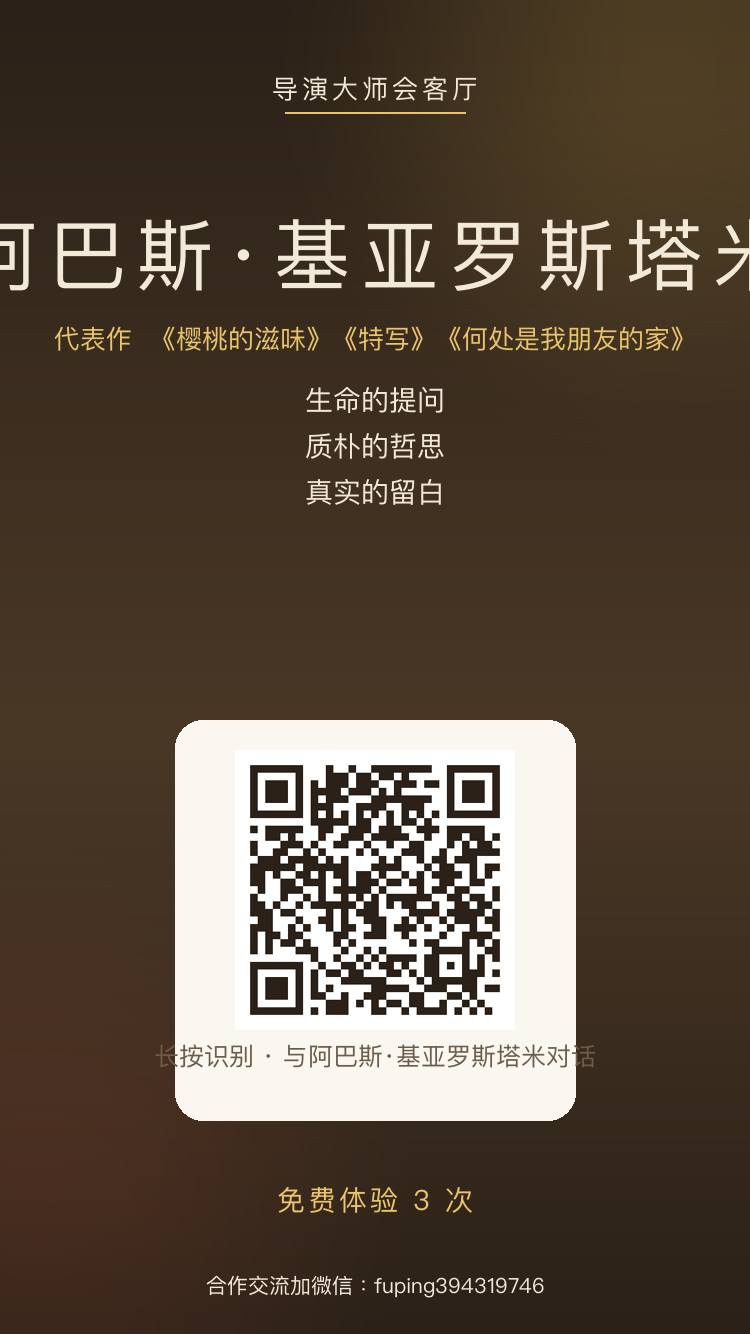
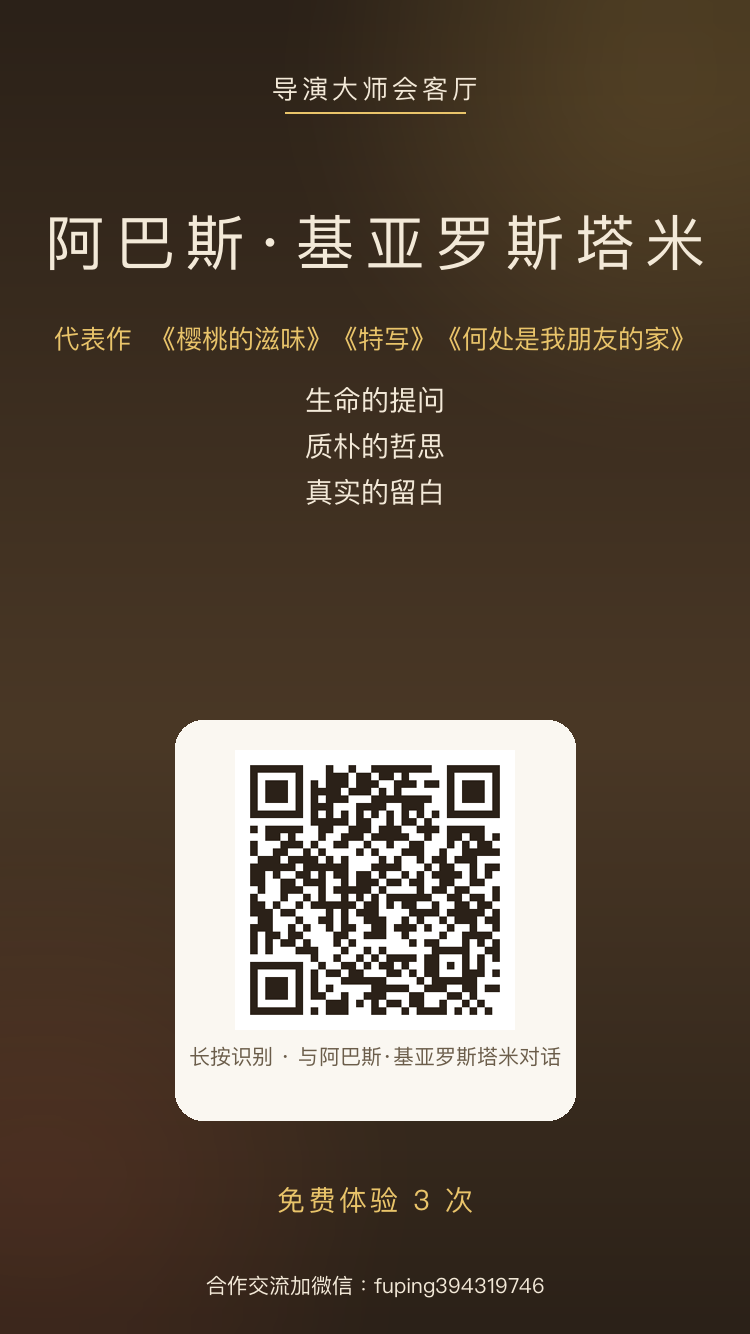
fix: 海报长名/二维码说明文字自动缩号，修复长字导演出画

diff --git a/directors/share/make_director_posters.py b/directors/share/make_director_posters.py
@@ -46,6 +46,16 @@ def center(d, text, y, fnt, fill, spacing=0, cx=W//2):
     else:
         w = d.textlength(text, font=fnt); d.text((cx - w/2, y), text, font=fnt, fill=fill)
 
+def fit_font(d, text, path, start, min_size, max_width, spacing=0):
+    """自动缩小字号直到文本(含字距)不超过 max_width"""
+    size = start
+    while size > min_size:
+        f = font(path, size)
+        w = sum(d.textlength(ch, font=f) for ch in text) + spacing * max(0, len(text) - 1)
+        if w <= max_width: return f, size
+        size -= 2
+    return font(path, min_size), min_size
+
 def glow(img, cx, cy, r, color):
     g = Image.new('RGBA', (W, H), (0, 0, 0, 0)); gd = ImageDraw.Draw(g)
     for i in range(12, 0, -1):
@@ -78,20 +88,20 @@ def make_poster(director):
     center(d, '导演大师会客厅', 70, font(CJK, 26), SUB, spacing=4)
     d.line([cx-90, 112, cx+90, 112], fill=GOLD, width=2)
 
-    # 导演名（大字）
-    center(d, cn, 200, font(CJK, 78), CREAM, spacing=10)
+    # 导演名（大字，长名自动缩号）
+    nf, nsize = fit_font(d, cn, CJK, 78, 40, W - 80, spacing=10)
+    center(d, cn, 200, nf, CREAM, spacing=10 if nsize >= 60 else 4)
 
-    # 代表作
+    # 代表作（过长自动缩号，不再截断）
     if work:
-        wf = font(CJK, 26)
-        w = d.textlength(work, font=wf)
-        if w > W - 100: work = work[:18] + '…'
+        wf, _ = fit_font(d, '代表作  ' + work, CJK, 26, 16, W - 90)
         center(d, '代表作  ' + work, 320, wf, GOLD)
 
-    # 招牌主题（最多 3 行）
+    # 招牌主题（最多 3 行，同样防溢出）
     ty = 380
     for th in themes[:3]:
-        center(d, th, ty, font(CJK, 28), CREAM)
+        tf, _ = fit_font(d, th, CJK, 28, 18, W - 90)
+        center(d, th, ty, tf, CREAM)
         ty += 46
 
     # 二维码卡片
@@ -99,8 +109,9 @@ def make_poster(director):
     card_y = 720
     d.rounded_rectangle([cx-200, card_y, cx+200, card_y+400], radius=28, fill=(250, 247, 241, 255))
     img.paste(qrimg, (cx-140, card_y+30))
-    d.text((cx, card_y+336), '长按识别 · 与' + cn + '对话', font=font(CJK, 25),
-           fill=(107, 93, 74, 255), anchor='mm')
+    cap = '长按识别 · 与' + cn + '对话'
+    cf, _ = fit_font(d, cap, CJK, 25, 15, 380)
+    d.text((cx, card_y+336), cap, font=cf, fill=(107, 93, 74, 255), anchor='mm')
 
     # 底部
     center(d, '免费体验 3 次', 1180, font(CJK, 28), GOLD, spacing=3)
